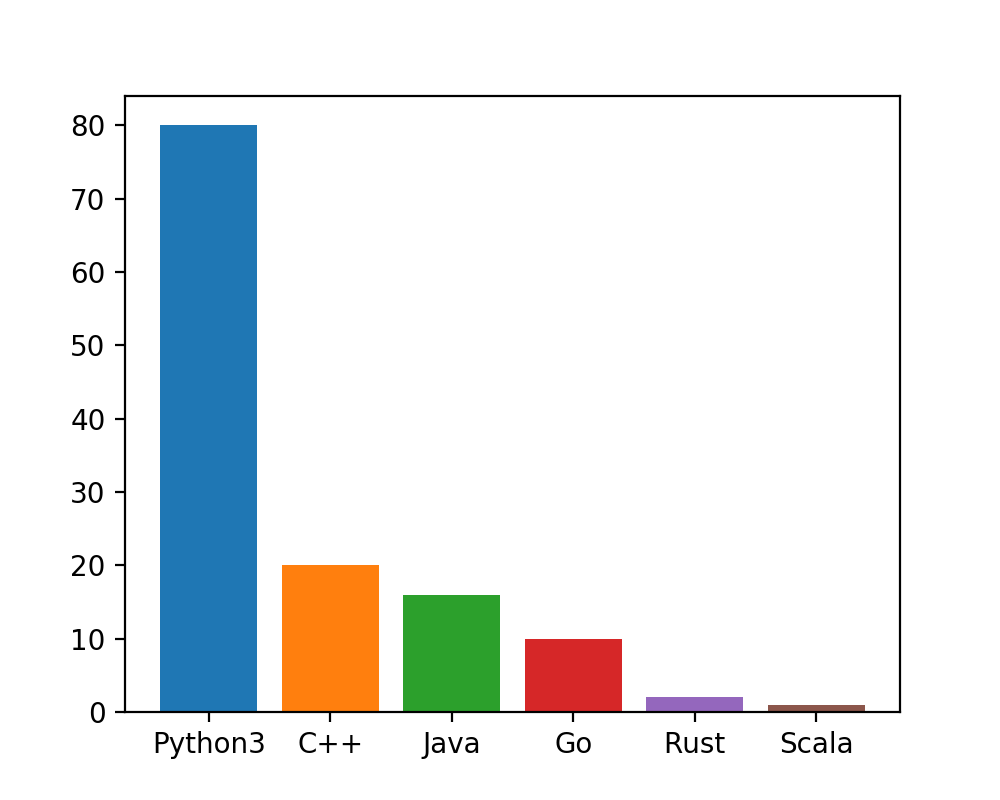
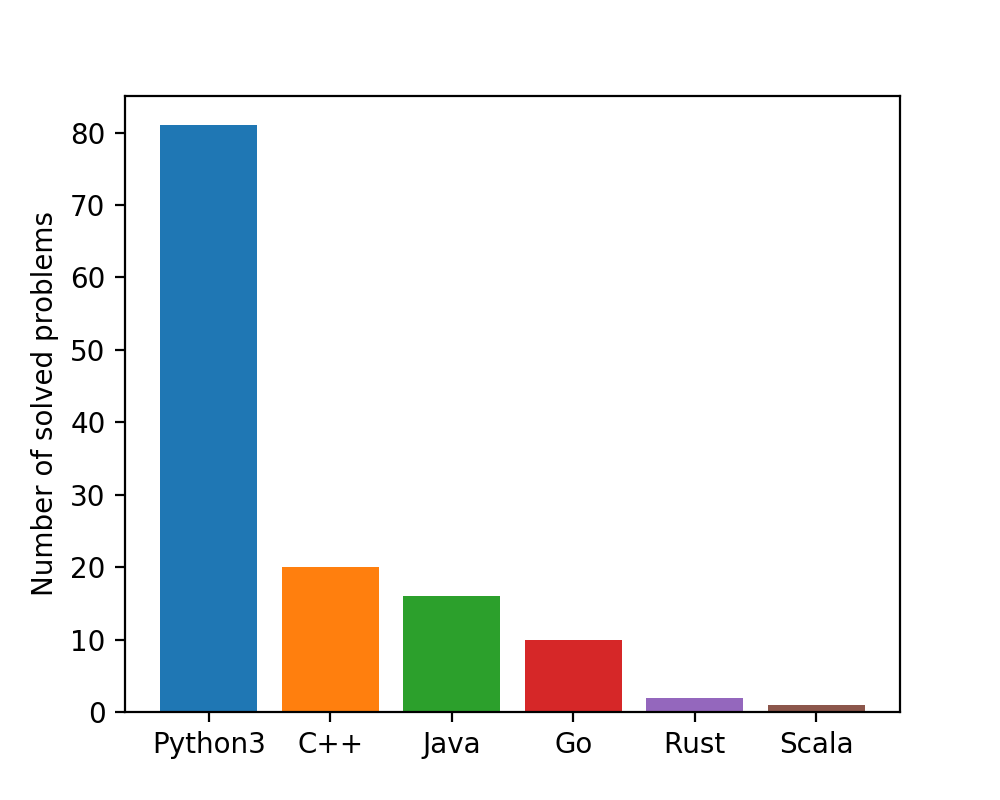
update README for including graph

Changed region(s): [[0.031, 0.2188, 0.124, 0.75], [0.062, 0.125, 0.124, 0.1875], [0.093, 0.7812, 0.124, 0.8125]]

diff --git a/readme2graph.py b/readme2graph.py
@@ -1,12 +1,11 @@
 from matplotlib import pyplot as plt
 import matplotlib as mpl
-mpl.use('Agg')
 
 di = {}
 while(True):
     try: s = input()
     except: break
-    if s[:3] == "## ":
+    if s[:3] == "## " and s[3:] != "Number of solved problems for each language":
         di[s[3:]] = 0
         while(True):
             try: n = input()
@@ -20,5 +19,6 @@ while(True):
 plt.figure(figsize=(5,4),facecolor="W")
 for k,v in sorted(di.items(), key=lambda x: -x[1]):
     plt.bar(k,v)
+plt.ylabel("Number of solved problems")
 plt.savefig("num_solved_problems.png",dpi=200)
 plt.close()

diff --git a/README.md b/README.md
@@ -29,3 +29,6 @@ Solved problems
 
 ## Scala
 `0000`  
+
+## Number of solved problems for each language
+![num_solved_problems.png](https://github.com/ehki/AOJ_challenge/blob/master/num_solved_problems.png?raw=true "Number of solved problems for each language")
